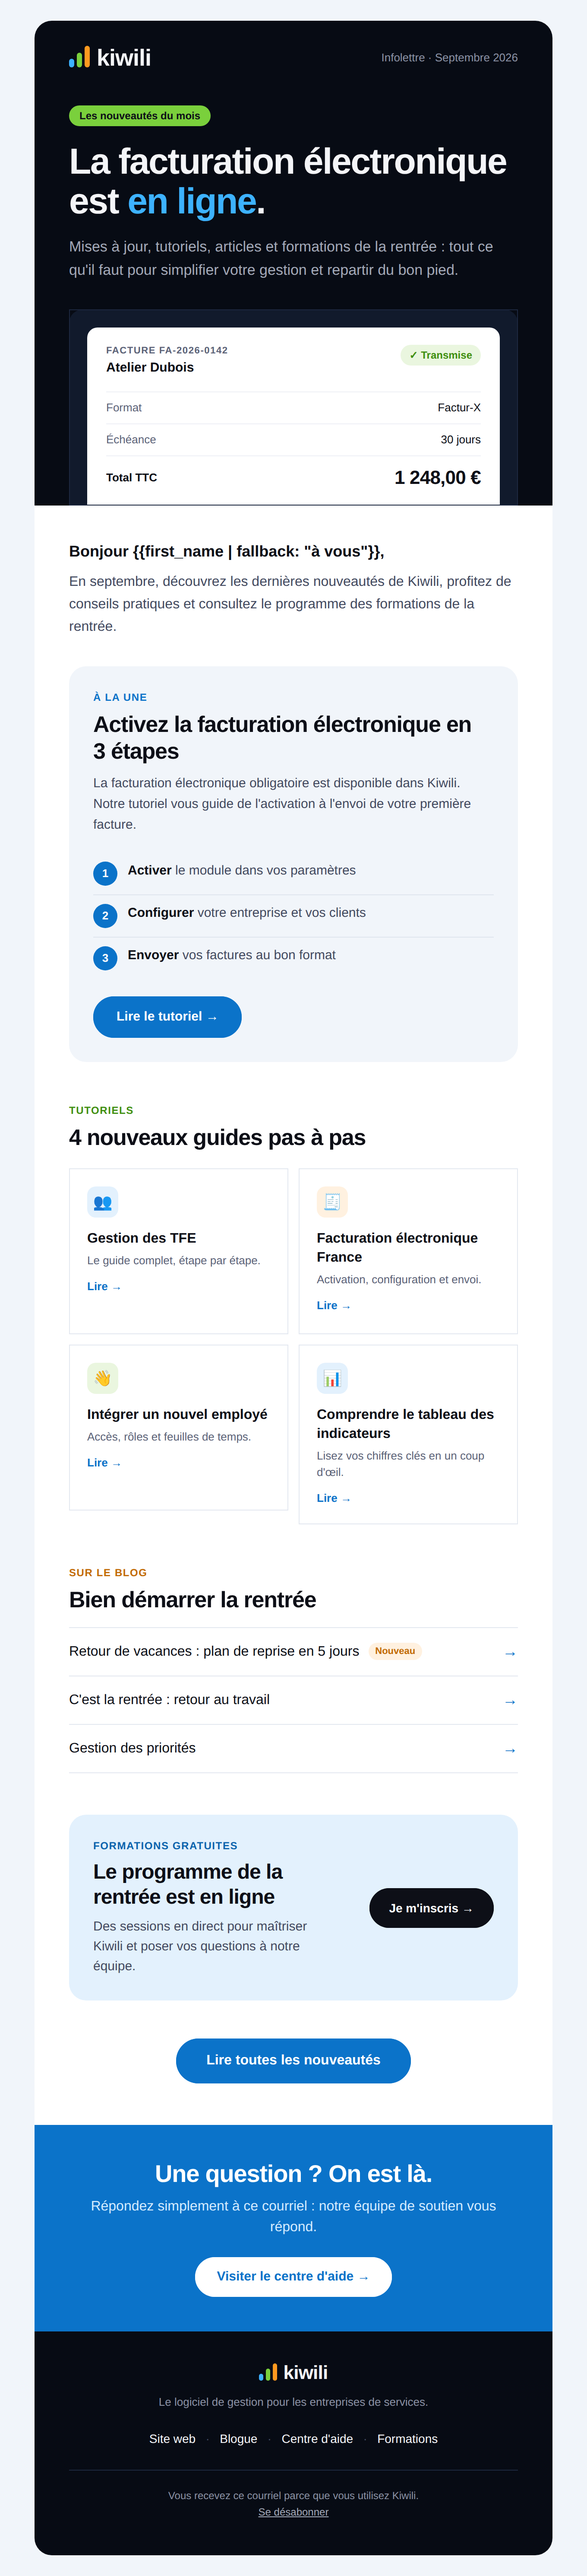
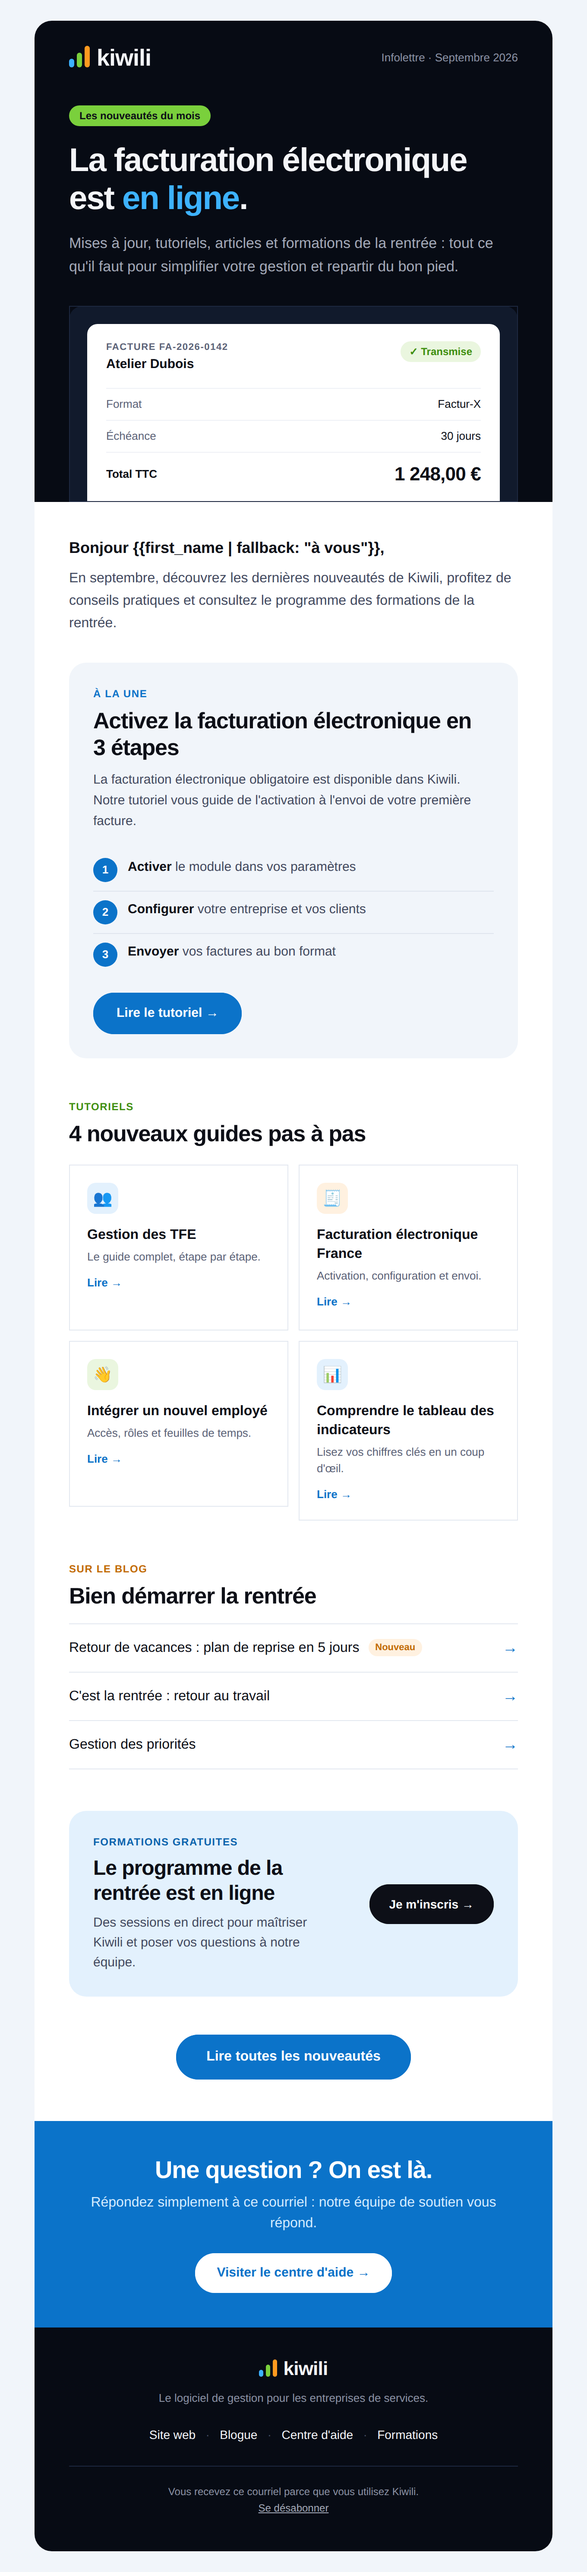
Switch newsletter font to Poppins
Claude-Session: https://claude.ai/code/session_014xcBGi8Ap7EXmbHS8Mfg8Y

diff --git a/newsletter/infolettre-septembre.html b/newsletter/infolettre-septembre.html
@@ -10,7 +10,7 @@
 <meta name="supported-color-schemes" content="light">
 <title>Kiwili · Les nouveautés du mois</title>
 <!--[if mso]><noscript><xml><o:OfficeDocumentSettings><o:PixelsPerInch>96</o:PixelsPerInch></o:OfficeDocumentSettings></xml></noscript><![endif]-->
-<link href="https://fonts.googleapis.com/css2?family=Bricolage+Grotesque:opsz,wght@12..96,700&family=Inter:wght@400;500;600&display=swap" rel="stylesheet">
+<link href="https://fonts.googleapis.com/css2?family=Poppins:wght@400;500;600;700&display=swap" rel="stylesheet">
 <style>
   body,table,td,a{-webkit-text-size-adjust:100%;-ms-text-size-adjust:100%}
   table,td{mso-table-lspace:0;mso-table-rspace:0;border-collapse:collapse}
@@ -63,11 +63,11 @@
                 <td valign="bottom" style="padding:0 3px 4px 0;"><div style="width:6px;height:10px;background:#3db2ff;border-radius:3px;font-size:0;line-height:0;">&nbsp;</div></td>
                 <td valign="bottom" style="padding:0 3px 4px 0;"><div style="width:6px;height:17px;background:#7ad03c;border-radius:3px;font-size:0;line-height:0;">&nbsp;</div></td>
                 <td valign="bottom" style="padding:0 8px 4px 0;"><div style="width:6px;height:25px;background:#ff9a1f;border-radius:3px;font-size:0;line-height:0;">&nbsp;</div></td>
-                <td valign="bottom" style="font-family:'Bricolage Grotesque',Arial,Helvetica,sans-serif;font-size:27px;line-height:30px;font-weight:700;color:#f4f5f8;letter-spacing:-0.5px;">kiwili</td>
+                <td valign="bottom" style="font-family:Poppins,Arial,Helvetica,sans-serif;font-size:27px;line-height:30px;font-weight:700;color:#f4f5f8;letter-spacing:-0.5px;">kiwili</td>
               </tr></table>
             </a>
           </td>
-          <td align="right" valign="middle" style="font-family:Inter,Arial,Helvetica,sans-serif;font-size:13px;line-height:18px;color:#8b92a5;">
+          <td align="right" valign="middle" style="font-family:Poppins,Arial,Helvetica,sans-serif;font-size:13px;line-height:18px;color:#8b92a5;">
             Infolettre · Septembre 2026
           </td>
         </tr></table>
@@ -76,12 +76,12 @@
       <!-- Titre -->
       <tr><td class="px" style="padding:40px 40px 0 40px;">
         <table role="presentation" cellpadding="0" cellspacing="0" border="0"><tr>
-          <td style="background:#7ad03c;border-radius:999px;padding:5px 12px;font-family:Inter,Arial,Helvetica,sans-serif;font-size:12px;line-height:14px;font-weight:600;color:#0d0f17;">Les nouveautés du mois</td>
+          <td style="background:#7ad03c;border-radius:999px;padding:5px 12px;font-family:Poppins,Arial,Helvetica,sans-serif;font-size:12px;line-height:14px;font-weight:600;color:#0d0f17;">Les nouveautés du mois</td>
         </tr></table>
-        <h1 class="h1" style="margin:18px 0 0 0;font-family:'Bricolage Grotesque',Arial,Helvetica,sans-serif;font-size:42px;line-height:46px;font-weight:700;color:#f4f5f8;letter-spacing:-1.2px;">
+        <h1 class="h1" style="margin:18px 0 0 0;font-family:Poppins,Arial,Helvetica,sans-serif;font-size:38px;line-height:44px;font-weight:700;color:#f4f5f8;letter-spacing:-1px;">
           La facturation électronique est <span style="color:#3db2ff;">en ligne</span>.
         </h1>
-        <p style="margin:16px 0 0 0;font-family:Inter,Arial,Helvetica,sans-serif;font-size:17px;line-height:27px;color:#a3a9b8;">
+        <p style="margin:16px 0 0 0;font-family:Poppins,Arial,Helvetica,sans-serif;font-size:17px;line-height:27px;color:#a3a9b8;">
           Mises à jour, tutoriels, articles et formations de la rentrée&nbsp;: tout ce qu'il faut pour simplifier votre gestion et repartir du bon pied.
         </p>
       </td></tr>
@@ -93,19 +93,19 @@
             <table role="presentation" width="100%" cellpadding="0" cellspacing="0" border="0" style="background:#ffffff;border-radius:12px 12px 0 0;">
               <tr><td style="padding:20px 22px 6px 22px;">
                 <table role="presentation" width="100%" cellpadding="0" cellspacing="0" border="0"><tr>
-                  <td style="font-family:Inter,Arial,Helvetica,sans-serif;">
+                  <td style="font-family:Poppins,Arial,Helvetica,sans-serif;">
                     <div style="font-size:11px;line-height:14px;font-weight:600;color:#5b6277;letter-spacing:0.8px;text-transform:uppercase;">Facture FA-2026-0142</div>
                     <div style="font-size:15px;line-height:22px;font-weight:600;color:#0d0f17;margin-top:2px;">Atelier Dubois</div>
                   </td>
                   <td align="right" valign="top">
                     <table role="presentation" cellpadding="0" cellspacing="0" border="0"><tr>
-                      <td style="background:#eaf6df;border-radius:999px;padding:5px 10px;font-family:Inter,Arial,Helvetica,sans-serif;font-size:12px;line-height:14px;font-weight:600;color:#3f8f0f;white-space:nowrap;">&#10003;&nbsp;Transmise</td>
+                      <td style="background:#eaf6df;border-radius:999px;padding:5px 10px;font-family:Poppins,Arial,Helvetica,sans-serif;font-size:12px;line-height:14px;font-weight:600;color:#3f8f0f;white-space:nowrap;">&#10003;&nbsp;Transmise</td>
                     </tr></table>
                   </td>
                 </tr></table>
               </td></tr>
               <tr><td style="padding:10px 22px 18px 22px;">
-                <table role="presentation" width="100%" cellpadding="0" cellspacing="0" border="0" style="font-family:Inter,Arial,Helvetica,sans-serif;font-size:13px;line-height:18px;">
+                <table role="presentation" width="100%" cellpadding="0" cellspacing="0" border="0" style="font-family:Poppins,Arial,Helvetica,sans-serif;font-size:13px;line-height:18px;">
                   <tr>
                     <td style="padding:9px 0;border-top:1px solid #eef0f6;color:#5b6277;">Format</td>
                     <td align="right" style="padding:9px 0;border-top:1px solid #eef0f6;color:#0d0f17;font-weight:500;">Factur-X</td>
@@ -116,7 +116,7 @@
                   </tr>
                   <tr>
                     <td style="padding:12px 0 0 0;border-top:1px solid #eef0f6;color:#0d0f17;font-weight:600;">Total TTC</td>
-                    <td align="right" style="padding:12px 0 0 0;border-top:1px solid #eef0f6;font-family:'Bricolage Grotesque',Arial,Helvetica,sans-serif;font-size:22px;line-height:26px;font-weight:700;color:#0d0f17;letter-spacing:-0.4px;">1&nbsp;248,00&nbsp;€</td>
+                    <td align="right" style="padding:12px 0 0 0;border-top:1px solid #eef0f6;font-family:Poppins,Arial,Helvetica,sans-serif;font-size:22px;line-height:26px;font-weight:700;color:#0d0f17;letter-spacing:-0.4px;">1&nbsp;248,00&nbsp;€</td>
                   </tr>
                 </table>
               </td></tr>
@@ -132,7 +132,7 @@
     <table role="presentation" width="100%" cellpadding="0" cellspacing="0" border="0">
 
       <!-- Salutation -->
-      <tr><td class="px" style="padding:40px 40px 0 40px;font-family:Inter,Arial,Helvetica,sans-serif;">
+      <tr><td class="px" style="padding:40px 40px 0 40px;font-family:Poppins,Arial,Helvetica,sans-serif;">
         <p style="margin:0;font-size:18px;line-height:26px;font-weight:600;color:#0d0f17;">Bonjour {{first_name | fallback: "à vous"}},</p>
         <p style="margin:10px 0 0 0;font-size:16px;line-height:26px;color:#434a5f;">
           En septembre, découvrez les dernières nouveautés de Kiwili, profitez de conseils pratiques et consultez le programme des formations de la rentrée.
@@ -142,14 +142,14 @@
       <!-- À la une : facturation électronique -->
       <tr><td class="px" style="padding:32px 40px 0 40px;">
         <table role="presentation" width="100%" cellpadding="0" cellspacing="0" border="0" style="background:#f1f5fa;border-radius:20px;">
-          <tr><td style="padding:28px 28px 8px 28px;font-family:Inter,Arial,Helvetica,sans-serif;">
+          <tr><td style="padding:28px 28px 8px 28px;font-family:Poppins,Arial,Helvetica,sans-serif;">
             <div style="font-size:12px;line-height:16px;font-weight:600;color:#0b73c9;letter-spacing:0.8px;text-transform:uppercase;">À la une</div>
-            <h2 class="h2" style="margin:8px 0 0 0;font-family:'Bricolage Grotesque',Arial,Helvetica,sans-serif;font-size:26px;line-height:31px;font-weight:700;color:#0d0f17;letter-spacing:-0.6px;">Activez la facturation électronique en 3&nbsp;étapes</h2>
+            <h2 class="h2" style="margin:8px 0 0 0;font-family:Poppins,Arial,Helvetica,sans-serif;font-size:26px;line-height:31px;font-weight:700;color:#0d0f17;letter-spacing:-0.6px;">Activez la facturation électronique en 3&nbsp;étapes</h2>
             <p style="margin:10px 0 0 0;font-size:15px;line-height:24px;color:#434a5f;">La facturation électronique obligatoire est disponible dans Kiwili. Notre tutoriel vous guide de l'activation à l'envoi de votre première facture.</p>
           </td></tr>
           <!-- Étapes -->
           <tr><td style="padding:12px 28px 0 28px;">
-            <table role="presentation" width="100%" cellpadding="0" cellspacing="0" border="0" style="font-family:Inter,Arial,Helvetica,sans-serif;">
+            <table role="presentation" width="100%" cellpadding="0" cellspacing="0" border="0" style="font-family:Poppins,Arial,Helvetica,sans-serif;">
               <tr>
                 <td width="40" valign="top" style="padding:10px 0;"><div style="width:28px;height:28px;line-height:28px;border-radius:999px;background:#0b73c9;color:#ffffff;font-size:13px;font-weight:600;text-align:center;">1</div></td>
                 <td valign="top" style="padding:10px 0;font-size:15px;line-height:22px;color:#0d0f17;"><strong style="font-weight:600;">Activer</strong> <span style="color:#434a5f;">le module dans vos paramètres</span></td>
@@ -169,7 +169,7 @@
             <table role="presentation" cellpadding="0" cellspacing="0" border="0" class="full"><tr>
               <td class="btn" align="center" style="border-radius:999px;background:#0b73c9;">
                 <!-- LIEN : tutoriel facturation électronique -->
-                <a href="https://www.kiwili.com" style="display:inline-block;padding:13px 26px;border:1px solid #0b73c9;border-radius:999px;background:#0b73c9;font-family:Inter,Arial,Helvetica,sans-serif;font-size:15px;line-height:20px;font-weight:600;color:#ffffff;text-decoration:none;">Lire le tutoriel &rarr;</a>
+                <a href="https://www.kiwili.com" style="display:inline-block;padding:13px 26px;border:1px solid #0b73c9;border-radius:999px;background:#0b73c9;font-family:Poppins,Arial,Helvetica,sans-serif;font-size:15px;line-height:20px;font-weight:600;color:#ffffff;text-decoration:none;">Lire le tutoriel &rarr;</a>
               </td>
             </tr></table>
           </td></tr>
@@ -177,9 +177,9 @@
       </td></tr>
 
       <!-- Nouveaux tutoriels : grille 2 × 2 -->
-      <tr><td class="px" style="padding:48px 40px 0 40px;font-family:Inter,Arial,Helvetica,sans-serif;">
+      <tr><td class="px" style="padding:48px 40px 0 40px;font-family:Poppins,Arial,Helvetica,sans-serif;">
         <div style="font-size:12px;line-height:16px;font-weight:600;color:#3f8f0f;letter-spacing:0.8px;text-transform:uppercase;">Tutoriels</div>
-        <h2 class="h2" style="margin:8px 0 0 0;font-family:'Bricolage Grotesque',Arial,Helvetica,sans-serif;font-size:26px;line-height:31px;font-weight:700;color:#0d0f17;letter-spacing:-0.6px;">4 nouveaux guides pas à pas</h2>
+        <h2 class="h2" style="margin:8px 0 0 0;font-family:Poppins,Arial,Helvetica,sans-serif;font-size:26px;line-height:31px;font-weight:700;color:#0d0f17;letter-spacing:-0.6px;">4 nouveaux guides pas à pas</h2>
       </td></tr>
       <tr><td class="px" style="padding:20px 40px 0 40px;">
         <table role="presentation" width="100%" cellpadding="0" cellspacing="0" border="0">
@@ -188,7 +188,7 @@
               <!-- LIEN : Gestion des TFE -->
               <a href="https://www.kiwili.com" style="display:block;text-decoration:none;">
               <table role="presentation" width="100%" cellpadding="0" cellspacing="0" border="0" style="border:1px solid #e3e8f0;border-radius:16px;">
-                <tr><td style="padding:20px;font-family:Inter,Arial,Helvetica,sans-serif;height:150px;" valign="top">
+                <tr><td style="padding:20px;font-family:Poppins,Arial,Helvetica,sans-serif;height:150px;" valign="top">
                   <div style="width:36px;height:36px;line-height:36px;border-radius:10px;background:#e3f1fd;text-align:center;font-size:18px;">&#128101;</div>
                   <div style="margin-top:14px;font-size:16px;line-height:22px;font-weight:600;color:#0d0f17;">Gestion des TFE</div>
                   <div style="margin-top:4px;font-size:13px;line-height:19px;color:#5b6277;">Le guide complet, étape par étape.</div>
@@ -201,7 +201,7 @@
               <!-- LIEN : Facturation électronique France -->
               <a href="https://www.kiwili.com" style="display:block;text-decoration:none;">
               <table role="presentation" width="100%" cellpadding="0" cellspacing="0" border="0" style="border:1px solid #e3e8f0;border-radius:16px;">
-                <tr><td style="padding:20px;font-family:Inter,Arial,Helvetica,sans-serif;height:150px;" valign="top">
+                <tr><td style="padding:20px;font-family:Poppins,Arial,Helvetica,sans-serif;height:150px;" valign="top">
                   <div style="width:36px;height:36px;line-height:36px;border-radius:10px;background:#fff1e0;text-align:center;font-size:18px;">&#129534;</div>
                   <div style="margin-top:14px;font-size:16px;line-height:22px;font-weight:600;color:#0d0f17;">Facturation électronique France</div>
                   <div style="margin-top:4px;font-size:13px;line-height:19px;color:#5b6277;">Activation, configuration et envoi.</div>
@@ -216,7 +216,7 @@
               <!-- LIEN : Intégrer un nouvel employé -->
               <a href="https://www.kiwili.com" style="display:block;text-decoration:none;">
               <table role="presentation" width="100%" cellpadding="0" cellspacing="0" border="0" style="border:1px solid #e3e8f0;border-radius:16px;">
-                <tr><td style="padding:20px;font-family:Inter,Arial,Helvetica,sans-serif;height:150px;" valign="top">
+                <tr><td style="padding:20px;font-family:Poppins,Arial,Helvetica,sans-serif;height:150px;" valign="top">
                   <div style="width:36px;height:36px;line-height:36px;border-radius:10px;background:#eaf6df;text-align:center;font-size:18px;">&#128075;</div>
                   <div style="margin-top:14px;font-size:16px;line-height:22px;font-weight:600;color:#0d0f17;">Intégrer un nouvel employé</div>
                   <div style="margin-top:4px;font-size:13px;line-height:19px;color:#5b6277;">Accès, rôles et feuilles de temps.</div>
@@ -229,7 +229,7 @@
               <!-- LIEN : Comprendre le tableau des indicateurs -->
               <a href="https://www.kiwili.com" style="display:block;text-decoration:none;">
               <table role="presentation" width="100%" cellpadding="0" cellspacing="0" border="0" style="border:1px solid #e3e8f0;border-radius:16px;">
-                <tr><td style="padding:20px;font-family:Inter,Arial,Helvetica,sans-serif;height:150px;" valign="top">
+                <tr><td style="padding:20px;font-family:Poppins,Arial,Helvetica,sans-serif;height:150px;" valign="top">
                   <div style="width:36px;height:36px;line-height:36px;border-radius:10px;background:#e3f1fd;text-align:center;font-size:18px;">&#128202;</div>
                   <div style="margin-top:14px;font-size:16px;line-height:22px;font-weight:600;color:#0d0f17;">Comprendre le tableau des indicateurs</div>
                   <div style="margin-top:4px;font-size:13px;line-height:19px;color:#5b6277;">Lisez vos chiffres clés en un coup d'œil.</div>
@@ -243,12 +243,12 @@
       </td></tr>
 
       <!-- Sur le blog : liste d'articles -->
-      <tr><td class="px" style="padding:48px 40px 0 40px;font-family:Inter,Arial,Helvetica,sans-serif;">
+      <tr><td class="px" style="padding:48px 40px 0 40px;font-family:Poppins,Arial,Helvetica,sans-serif;">
         <div style="font-size:12px;line-height:16px;font-weight:600;color:#c26a00;letter-spacing:0.8px;text-transform:uppercase;">Sur le blog</div>
-        <h2 class="h2" style="margin:8px 0 0 0;font-family:'Bricolage Grotesque',Arial,Helvetica,sans-serif;font-size:26px;line-height:31px;font-weight:700;color:#0d0f17;letter-spacing:-0.6px;">Bien démarrer la rentrée</h2>
+        <h2 class="h2" style="margin:8px 0 0 0;font-family:Poppins,Arial,Helvetica,sans-serif;font-size:26px;line-height:31px;font-weight:700;color:#0d0f17;letter-spacing:-0.6px;">Bien démarrer la rentrée</h2>
       </td></tr>
       <tr><td class="px" style="padding:16px 40px 0 40px;">
-        <table role="presentation" width="100%" cellpadding="0" cellspacing="0" border="0" style="font-family:Inter,Arial,Helvetica,sans-serif;">
+        <table role="presentation" width="100%" cellpadding="0" cellspacing="0" border="0" style="font-family:Poppins,Arial,Helvetica,sans-serif;">
           <!-- LIEN : Retour de vacances -->
           <tr><td style="border-top:1px solid #e3e8f0;">
             <a class="row-link" href="https://www.kiwili.com" style="display:block;padding:16px 0;text-decoration:none;">
@@ -285,16 +285,16 @@
       <tr><td class="px" style="padding:48px 40px 0 40px;">
         <table role="presentation" width="100%" cellpadding="0" cellspacing="0" border="0" style="background:#e3f1fd;border-radius:20px;">
           <tr>
-            <td class="stack" valign="middle" style="padding:28px 0 28px 28px;font-family:Inter,Arial,Helvetica,sans-serif;">
+            <td class="stack" valign="middle" style="padding:28px 0 28px 28px;font-family:Poppins,Arial,Helvetica,sans-serif;">
               <div style="font-size:12px;line-height:16px;font-weight:600;color:#0a63ad;letter-spacing:0.8px;text-transform:uppercase;">Formations gratuites</div>
-              <h2 class="h2" style="margin:8px 0 0 0;font-family:'Bricolage Grotesque',Arial,Helvetica,sans-serif;font-size:24px;line-height:29px;font-weight:700;color:#0d0f17;letter-spacing:-0.5px;">Le programme de la rentrée est en ligne</h2>
+              <h2 class="h2" style="margin:8px 0 0 0;font-family:Poppins,Arial,Helvetica,sans-serif;font-size:24px;line-height:29px;font-weight:700;color:#0d0f17;letter-spacing:-0.5px;">Le programme de la rentrée est en ligne</h2>
               <p style="margin:8px 0 0 0;font-size:15px;line-height:23px;color:#434a5f;">Des sessions en direct pour maîtriser Kiwili et poser vos questions à notre équipe.</p>
             </td>
             <td class="stack stack-cta" width="190" align="right" valign="middle" style="padding:28px 28px 28px 20px;">
               <table role="presentation" cellpadding="0" cellspacing="0" border="0" class="full"><tr>
                 <td class="btn" align="center" style="border-radius:999px;background:#0d0f17;">
                   <!-- LIEN : calendrier des formations -->
-                  <a href="https://www.kiwili.com" style="display:inline-block;padding:12px 22px;border:1px solid #0d0f17;border-radius:999px;background:#0d0f17;font-family:Inter,Arial,Helvetica,sans-serif;font-size:14px;line-height:20px;font-weight:600;color:#ffffff;text-decoration:none;white-space:nowrap;">Je m'inscris &rarr;</a>
+                  <a href="https://www.kiwili.com" style="display:inline-block;padding:12px 22px;border:1px solid #0d0f17;border-radius:999px;background:#0d0f17;font-family:Poppins,Arial,Helvetica,sans-serif;font-size:14px;line-height:20px;font-weight:600;color:#ffffff;text-decoration:none;white-space:nowrap;">Je m'inscris &rarr;</a>
                 </td>
               </tr></table>
             </td>
@@ -307,7 +307,7 @@
         <table role="presentation" cellpadding="0" cellspacing="0" border="0" class="full"><tr>
           <td class="btn" align="center" style="border-radius:999px;background:#0b73c9;">
             <!-- LIEN : toutes les nouveautés -->
-            <a href="https://www.kiwili.com" style="display:inline-block;padding:15px 34px;border:1px solid #0b73c9;border-radius:999px;background:#0b73c9;font-family:Inter,Arial,Helvetica,sans-serif;font-size:16px;line-height:20px;font-weight:600;color:#ffffff;text-decoration:none;">Lire toutes les nouveautés</a>
+            <a href="https://www.kiwili.com" style="display:inline-block;padding:15px 34px;border:1px solid #0b73c9;border-radius:999px;background:#0b73c9;font-family:Poppins,Arial,Helvetica,sans-serif;font-size:16px;line-height:20px;font-weight:600;color:#ffffff;text-decoration:none;">Lire toutes les nouveautés</a>
           </td>
         </tr></table>
       </td></tr>
@@ -316,24 +316,24 @@
   </td></tr>
 
   <!-- ============ AIDE (bande bleue) ============ -->
-  <tr><td class="px" align="center" style="background:#0b73c9;padding:40px 40px;font-family:Inter,Arial,Helvetica,sans-serif;">
-    <h2 class="h2" style="margin:0;font-family:'Bricolage Grotesque',Arial,Helvetica,sans-serif;font-size:28px;line-height:33px;font-weight:700;color:#ffffff;letter-spacing:-0.6px;">Une question&nbsp;? On est là.</h2>
+  <tr><td class="px" align="center" style="background:#0b73c9;padding:40px 40px;font-family:Poppins,Arial,Helvetica,sans-serif;">
+    <h2 class="h2" style="margin:0;font-family:Poppins,Arial,Helvetica,sans-serif;font-size:28px;line-height:33px;font-weight:700;color:#ffffff;letter-spacing:-0.6px;">Une question&nbsp;? On est là.</h2>
     <p style="margin:10px 0 0 0;font-size:16px;line-height:24px;color:#d4ebff;">Répondez simplement à ce courriel&nbsp;: notre équipe de soutien vous répond.</p>
     <table role="presentation" cellpadding="0" cellspacing="0" border="0" style="margin:22px auto 0 auto;"><tr>
       <td align="center" style="border-radius:999px;background:#ffffff;">
         <!-- LIEN : centre d'aide / support -->
-        <a href="https://www.kiwili.com" style="display:inline-block;padding:12px 24px;border:1px solid #ffffff;border-radius:999px;background:#ffffff;font-family:Inter,Arial,Helvetica,sans-serif;font-size:15px;line-height:20px;font-weight:600;color:#0b73c9;text-decoration:none;">Visiter le centre d'aide &rarr;</a>
+        <a href="https://www.kiwili.com" style="display:inline-block;padding:12px 24px;border:1px solid #ffffff;border-radius:999px;background:#ffffff;font-family:Poppins,Arial,Helvetica,sans-serif;font-size:15px;line-height:20px;font-weight:600;color:#0b73c9;text-decoration:none;">Visiter le centre d'aide &rarr;</a>
       </td>
     </tr></table>
   </td></tr>
 
   <!-- ============ PIED DE PAGE (bande sombre) ============ -->
-  <tr><td class="px" align="center" style="background:#070b14;border-radius:0 0 20px 20px;padding:36px 40px 40px 40px;font-family:Inter,Arial,Helvetica,sans-serif;">
+  <tr><td class="px" align="center" style="background:#070b14;border-radius:0 0 20px 20px;padding:36px 40px 40px 40px;font-family:Poppins,Arial,Helvetica,sans-serif;">
     <table role="presentation" cellpadding="0" cellspacing="0" border="0" style="margin:0 auto;"><tr>
       <td valign="bottom" style="padding:0 3px 3px 0;"><div style="width:5px;height:8px;background:#3db2ff;border-radius:3px;font-size:0;line-height:0;">&nbsp;</div></td>
       <td valign="bottom" style="padding:0 3px 3px 0;"><div style="width:5px;height:14px;background:#7ad03c;border-radius:3px;font-size:0;line-height:0;">&nbsp;</div></td>
       <td valign="bottom" style="padding:0 7px 3px 0;"><div style="width:5px;height:20px;background:#ff9a1f;border-radius:3px;font-size:0;line-height:0;">&nbsp;</div></td>
-      <td valign="bottom" style="font-family:'Bricolage Grotesque',Arial,Helvetica,sans-serif;font-size:22px;line-height:24px;font-weight:700;color:#f4f5f8;letter-spacing:-0.4px;">kiwili</td>
+      <td valign="bottom" style="font-family:Poppins,Arial,Helvetica,sans-serif;font-size:22px;line-height:24px;font-weight:700;color:#f4f5f8;letter-spacing:-0.4px;">kiwili</td>
     </tr></table>
     <p style="margin:12px 0 0 0;font-size:13px;line-height:20px;color:#8b92a5;">Le logiciel de gestion pour les entreprises de services.</p>
 
